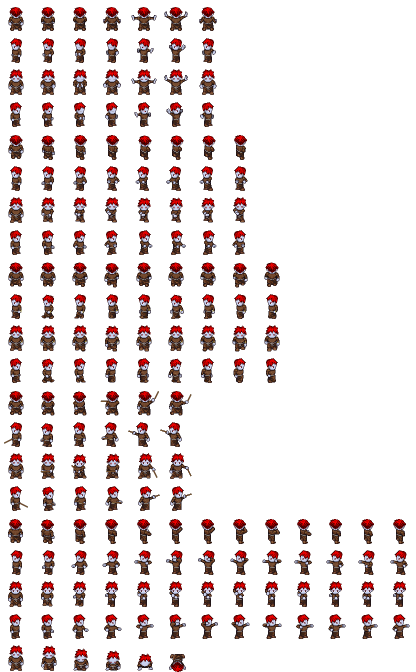
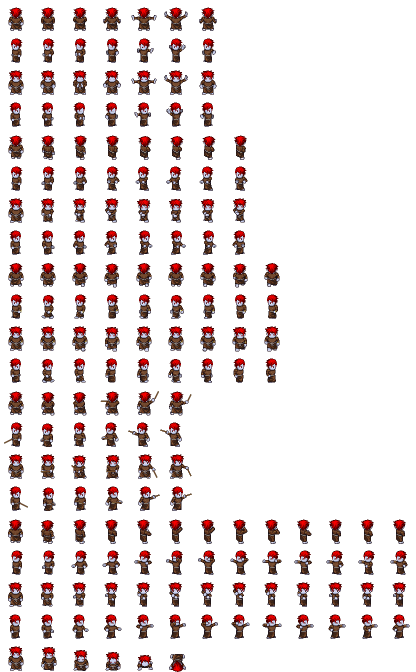
Added Wizard.png and minor changes

diff --git a/NewEra-Beta/src/javagame/Player.java b/NewEra-Beta/src/javagame/Player.java
@@ -74,6 +74,7 @@ public class Player {
         this.movingDown = new Animation( down, durationSpeed, true );
         this.movingLeft = new Animation( left, durationSpeed, true );
 
+            // Hunter
         if( classID == 0 ) {
 
             // Sets images for attacking animations
@@ -88,6 +89,7 @@ public class Player {
             this.attackingLeft = new Animation(leftAttack, durationHunterSpeedAttack, true);
 
         }
+            // Wizard
         else if( classID == 2 ) {
             // Sets images for attacking animations
             Image[] upAttack = {playerSpriteSheet.getSubImage(0, 0), playerSpriteSheet.getSubImage(1, 0), playerSpriteSheet.getSubImage(2, 0), playerSpriteSheet.getSubImage(3, 0), playerSpriteSheet.getSubImage(4, 0), playerSpriteSheet.getSubImage(5, 0), playerSpriteSheet.getSubImage(6, 0) };

diff --git a/NewEra-Beta/src/javagame/Game.java b/NewEra-Beta/src/javagame/Game.java
@@ -38,7 +38,7 @@ public class Game extends BasicGameState {
 
     public void init( GameContainer gc, StateBasedGame sbg ) throws SlickException {
 
-        this.hunterTom = new Wizard( "Wizard.png", "Tom" );
+        this.hunterTom = new Wizard( "wizard.png", "Tom" );
 
             // Starting tile
         this.hunterTom.setPlayerX( 94 );
